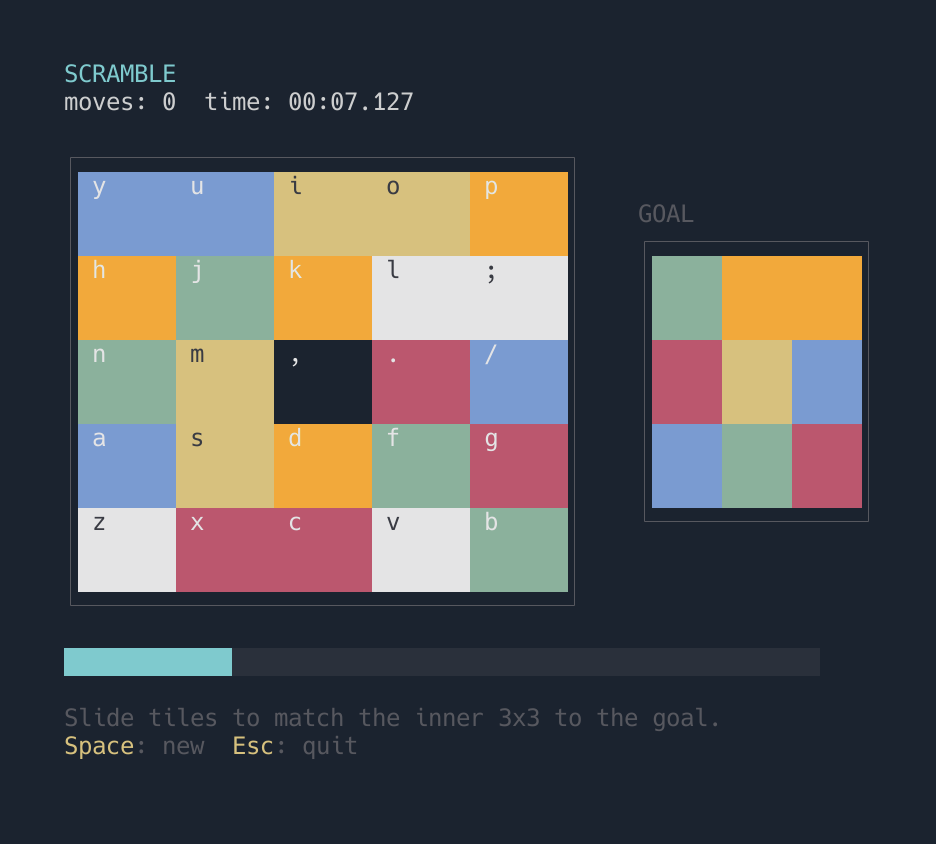
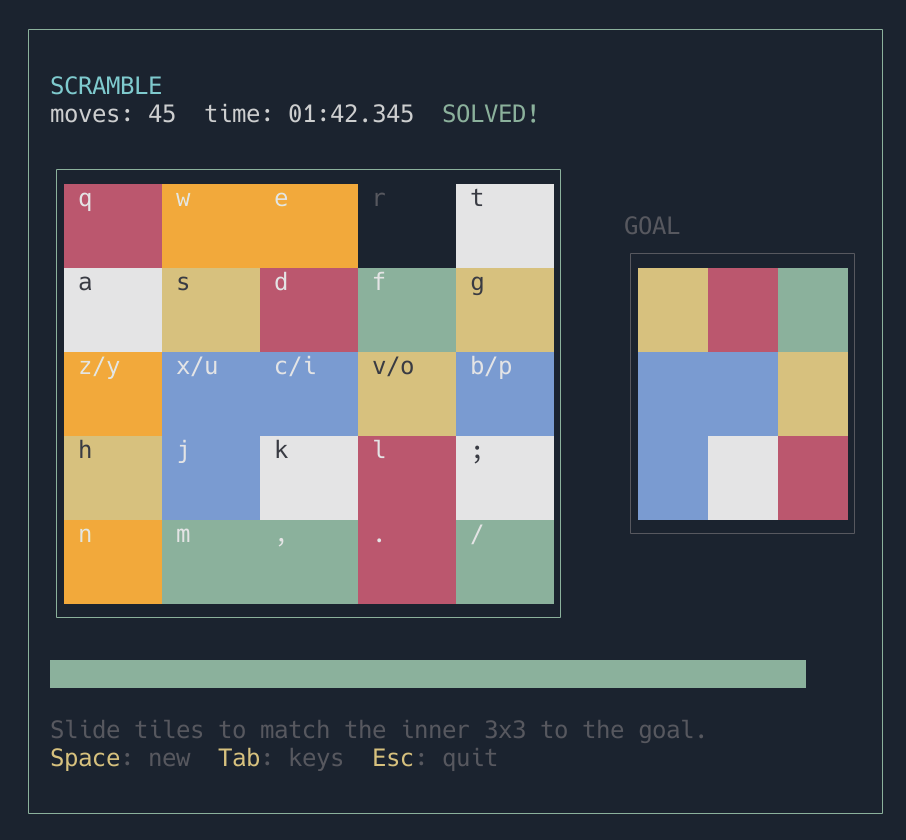
updated screenshot

diff --git a/README.md b/README.md
@@ -14,14 +14,14 @@ Tiles must be in the same row or column as the empty space.
 
 The board maps to your keyboard, split across both hands:
 
-**Left hand** (bottom of the board):
+**Left hand** (top of the board):
 ```
  q  w  e  r  t      1st row (top)
  a  s  d  f  g      2th row
  z  x  c  v  b      3rd row (middle)
 ```
 
-**Right hand** (top of the board):
+**Right hand** (bottom of the board):
 ```
  y  u  i  o  p      3rd row (middle)
  h  j  k  l  ;      4th row
@@ -34,6 +34,7 @@ Row 3 (middle) is accessible from both your left and right hand.
 
 - **Tile keys** - Slide a tile toward the empty space
 - **Space** - Start a new game
+- **Tab** - Toggle keymap overlay
 - **Esc** - Quit
 
 ### Gameplay
